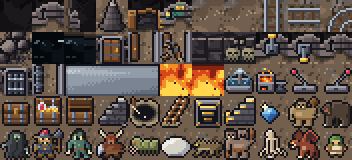
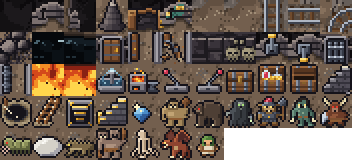
dev/r0guelike-art: Torchlit 16's version 3 sheet without the Sealed Door and the secret switch

diff --git a/public/dev/r0guelike-art/art/torchlit-16x16/index.html b/public/dev/r0guelike-art/art/torchlit-16x16/index.html
@@ -87,40 +87,36 @@
             <li><span class="look-tile" style="background-position: -448px -64px"></span>Bone-set wall</li>
             <li><span class="look-tile" style="background-position: -512px -64px"></span>Switch</li>
             <li><span class="look-tile" style="background-position: -576px -64px"></span>Thrown switch</li>
-            <li><span class="look-tile" style="background-position: -640px -64px"></span>Secret switch</li>
-            <li><span class="look-tile" style="background-position: -0px -128px"></span>Gate</li>
-            <li><span class="look-tile" style="background-position: -64px -128px"></span>Open gate</li>
-            <li><span class="look-tile" style="background-position: -128px -128px"></span>Sealed door, its left end</li>
-            <li><span class="look-tile" style="background-position: -192px -128px"></span>Sealed door, its middle</li>
-            <li><span class="look-tile" style="background-position: -256px -128px"></span>Sealed door, its right end</li>
-            <li><span class="look-tile" style="background-position: -320px -128px"></span>Lava</li>
-            <li><span class="look-tile" style="background-position: -384px -128px"></span>Lava, its bank</li>
-            <li><span class="look-tile" style="background-position: -448px -128px"></span>Fountain</li>
-            <li><span class="look-tile" style="background-position: -512px -128px"></span>Forge</li>
-            <li><span class="look-tile" style="background-position: -576px -128px"></span>Lever</li>
-            <li><span class="look-tile" style="background-position: -640px -128px"></span>Pulled lever</li>
-            <li><span class="look-tile" style="background-position: -0px -192px"></span>Chest</li>
-            <li><span class="look-tile" style="background-position: -64px -192px"></span>Open chest</li>
-            <li><span class="look-tile" style="background-position: -128px -192px"></span>Empty chest</li>
-            <li><span class="look-tile" style="background-position: -192px -192px"></span>Hewn stairs up</li>
-            <li><span class="look-tile" style="background-position: -256px -192px"></span>Crude hole down</li>
-            <li><span class="look-tile" style="background-position: -320px -192px"></span>Crude way up</li>
-            <li><span class="look-tile" style="background-position: -384px -192px"></span>Gilded stairs down</li>
-            <li><span class="look-tile" style="background-position: -448px -192px"></span>Gilded stairs up</li>
-            <li><span class="look-tile" style="background-position: -512px -192px"></span>Gem</li>
-            <li><span class="look-tile" style="background-position: -576px -192px"></span>Ogre</li>
-            <li><span class="look-tile" style="background-position: -640px -192px"></span>Cave bear</li>
-            <li><span class="look-tile" style="background-position: -0px -256px"></span>Wight</li>
-            <li><span class="look-tile" style="background-position: -64px -256px"></span>Bugbear warchief</li>
-            <li><span class="look-tile" style="background-position: -128px -256px"></span>Troll</li>
-            <li><span class="look-tile" style="background-position: -192px -256px"></span>Minotaur</li>
-            <li><span class="look-tile" style="background-position: -256px -256px"></span>Carrion crawler</li>
-            <li><span class="look-tile" style="background-position: -320px -256px"></span>Thrum</li>
-            <li><span class="look-tile" style="background-position: -384px -256px"></span>Basilisk</li>
-            <li><span class="look-tile" style="background-position: -448px -256px"></span>Ettin</li>
-            <li><span class="look-tile" style="background-position: -512px -256px"></span>Pale strider</li>
-            <li><span class="look-tile" style="background-position: -576px -256px"></span>Wyvern</li>
-            <li><span class="look-tile" style="background-position: -640px -256px"></span>Townsfolk</li>
+            <li><span class="look-tile" style="background-position: -640px -64px"></span>Gate</li>
+            <li><span class="look-tile" style="background-position: -0px -128px"></span>Open gate</li>
+            <li><span class="look-tile" style="background-position: -64px -128px"></span>Lava</li>
+            <li><span class="look-tile" style="background-position: -128px -128px"></span>Lava, its bank</li>
+            <li><span class="look-tile" style="background-position: -192px -128px"></span>Fountain</li>
+            <li><span class="look-tile" style="background-position: -256px -128px"></span>Forge</li>
+            <li><span class="look-tile" style="background-position: -320px -128px"></span>Lever</li>
+            <li><span class="look-tile" style="background-position: -384px -128px"></span>Pulled lever</li>
+            <li><span class="look-tile" style="background-position: -448px -128px"></span>Chest</li>
+            <li><span class="look-tile" style="background-position: -512px -128px"></span>Open chest</li>
+            <li><span class="look-tile" style="background-position: -576px -128px"></span>Empty chest</li>
+            <li><span class="look-tile" style="background-position: -640px -128px"></span>Hewn stairs up</li>
+            <li><span class="look-tile" style="background-position: -0px -192px"></span>Crude hole down</li>
+            <li><span class="look-tile" style="background-position: -64px -192px"></span>Crude way up</li>
+            <li><span class="look-tile" style="background-position: -128px -192px"></span>Gilded stairs down</li>
+            <li><span class="look-tile" style="background-position: -192px -192px"></span>Gilded stairs up</li>
+            <li><span class="look-tile" style="background-position: -256px -192px"></span>Gem</li>
+            <li><span class="look-tile" style="background-position: -320px -192px"></span>Ogre</li>
+            <li><span class="look-tile" style="background-position: -384px -192px"></span>Cave bear</li>
+            <li><span class="look-tile" style="background-position: -448px -192px"></span>Wight</li>
+            <li><span class="look-tile" style="background-position: -512px -192px"></span>Bugbear warchief</li>
+            <li><span class="look-tile" style="background-position: -576px -192px"></span>Troll</li>
+            <li><span class="look-tile" style="background-position: -640px -192px"></span>Minotaur</li>
+            <li><span class="look-tile" style="background-position: -0px -256px"></span>Carrion crawler</li>
+            <li><span class="look-tile" style="background-position: -64px -256px"></span>Thrum</li>
+            <li><span class="look-tile" style="background-position: -128px -256px"></span>Basilisk</li>
+            <li><span class="look-tile" style="background-position: -192px -256px"></span>Ettin</li>
+            <li><span class="look-tile" style="background-position: -256px -256px"></span>Pale strider</li>
+            <li><span class="look-tile" style="background-position: -320px -256px"></span>Wyvern</li>
+            <li><span class="look-tile" style="background-position: -384px -256px"></span>Townsfolk</li>
           </ul>
         </div>
       </section>
